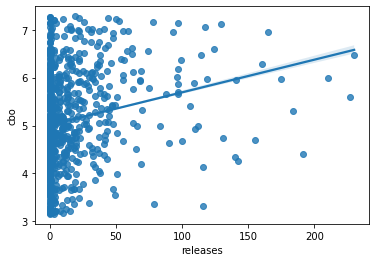
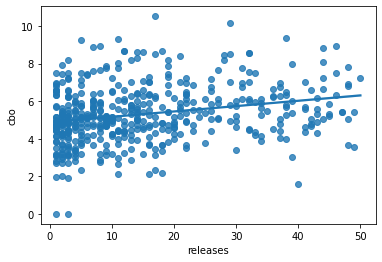
Q3 resolution

diff --git a/Trabalho 2/scripts/Lab02S03.py b/Trabalho 2/scripts/Lab02S03.py
@@ -16,6 +16,11 @@ q_low_dit = df["dit"].quantile(0.1)
 q_hi_dit = df["dit"].quantile(0.9)
 df_for_dit = df[(df["dit"] < q_hi_dit) & (df["dit"] > q_low_dit)]
 
+q_low_releases = df["releases"].quantile(0.1)
+q_hi_releases = df["releases"].quantile(0.9)
+df_for_releases = df[(df["releases"] < q_hi_releases) &
+                     (df["releases"] > q_low_releases)]
+
 
 # popularidade
 
@@ -49,16 +54,16 @@ df_for_dit = df[(df["dit"] < q_hi_dit) & (df["dit"] > q_low_dit)]
 
 # atividade
 
-# r, _ = stats.spearmanr(df_for_lcom['releases'], df_for_lcom['lcom'])
-# sns.regplot(x="releases", y="lcom", data=df_for_lcom, ci=25)
+# r, _ = stats.spearmanr(df_for_releases['releases'], df_for_releases['lcom'])
+# sns.regplot(x="releases", y="lcom", data=df_for_releases, ci=25)
 # print(f"Coeficiente de correlação de Spearman para releases and lcom r = {r}")
 
-# r, _ = stats.spearmanr(df_for_cbo['releases'], df_for_cbo['cbo'])
-# sns.regplot(x="releases", y="cbo", data=df_for_cbo, ci=25)
+# r, _ = stats.spearmanr(df_for_releases['releases'], df_for_releases['cbo'])
+# sns.regplot(x="releases", y="cbo", data=df_for_releases, ci=25)
 # print(f"Coeficiente de correlação de Spearman para releases and cbo r = {r}")
 
-# r, _ = stats.spearmanr(df_for_dit['releases'], df_for_dit['dit'])
-# sns.regplot(x="releases", y="dit", data=df_for_dit, ci=25)
+# r, _ = stats.spearmanr(df_for_releases['releases'], df_for_releases['dit'])
+# sns.regplot(x="releases", y="dit", data=df_for_releases, ci=25)
 # print(f"Coeficiente de correlação de Spearman para releases and dit r = {r}")
 
 

diff --git a/Trabalho 2/Relatório.md b/Trabalho 2/Relatório.md
@@ -112,35 +112,38 @@ Por fim, após os dados necessários salvos, torna-se viavel a construção dos 
 
 ### RQ Q3 - Qual a relação entre a atividade dos repositórios e as suas características de qualidade?  
 
-***Releases x Lcom***
-
 - **Hipótese**:
+
+    Acreditando que a métrica de release seja um valor que mostra a taxa de atualização de código, podemos esperar que todos os índices de qualidade de código reflitam essa melhoria, já que quanto mais o projeto é atualizado mais o código é melhorado.
+
 - **Resultados**:
+
+    ***Releases x Lcom***
 
     <div style="text-align: center">
     <img src="charts/Q3_releases_lcom.png" alt="RQ Q1 Gráfico">
-    <p>Coeficiente de correlação de Spearman para releases and lcom r = 0.29488717154797317</p>
+    <p>Coeficiente de correlação de Spearman para releases and lcom r = 0.3580470634144376</p>
     </div>
 
-***Releases x CBO***
+    Vemos qie apesar de existir um reta que aponta a tendência, temos um coeficiente de correlação baixo para dizer que a quantidade de releases interfere na métrica de LCOM.
 
-- **Hipótese**:
-- **Resultados**:
+    ***Releases x CBO***
 
     <div style="text-align: center">
     <img src="charts/Q3_releases_cbo.png" alt="RQ Q1 Gráfico">
-    <p>Coeficiente de correlação de Spearman para releases and cbo r = 0.23914772455719774</p>
+    <p>Coeficiente de correlação de Spearman para releases and cbo r = 0.2657982980485922</p>
     </div>
-    
-***Releases x DIT***
 
-- **Hipótese**:
-- **Resultados**:
+    Apesar de existir uma leve tendência de aumento do CBO, não podemos afirmar que esteja correlacionado com a quantidade de releases de um repositório, devido ao coeficiente de correlação de Spearman.
+
+    ***Releases x DIT***
 
     <div style="text-align: center">
     <img src="charts/Q3_releases_dit.png" alt="RQ Q1 Gráfico">
-    <p>Coeficiente de correlação de Spearman para releases and dit r = 0.09810236267773546</p>
+    <p>Coeficiente de correlação de Spearman para releases and dit r = 0.08469757952561427</p>
     </div>
+
+    Com o resultado obtido não é possível correlacionar as métricas de quantidade de release e DIT.
 
 ### RQ Q4 - Qual a relação entre o tamanho dos repositórios e as suas características de qualidade?  
 
